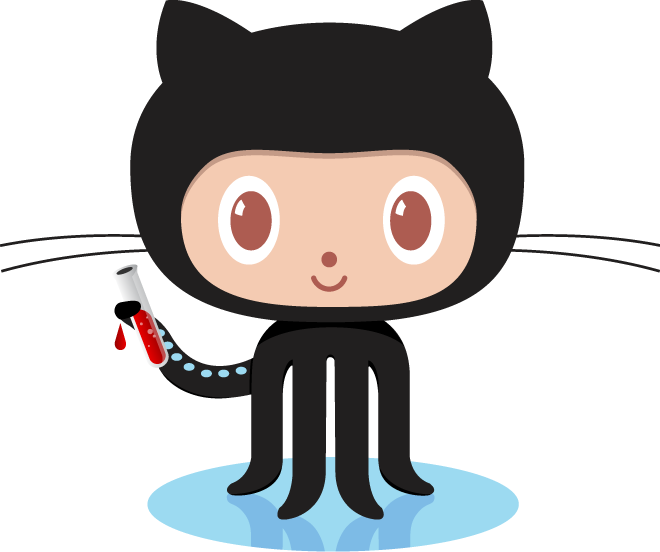
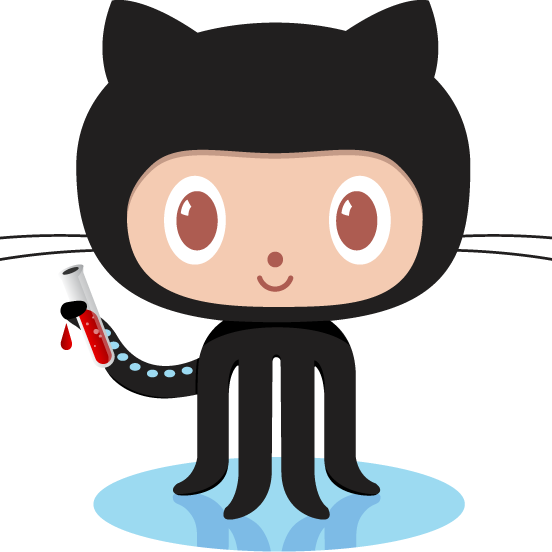
I

Changed region(s): [[0.0, 0.0, 0.5236, 1.0], [0.5236, 0.0, 1.0, 1.0], [0.462, 0.4928, 0.5543, 0.5236]]

diff --git a/css/main.css b/css/main.css
@@ -356,7 +356,7 @@ footer .theme-by {
   height: 192px;
   width: 192px;
   margin-top: -35px;
-  filter: grayscale(90%);
+  filter: grayscale(30%);
 }
 .post-image:hover {
   filter: grayscale(0%);
